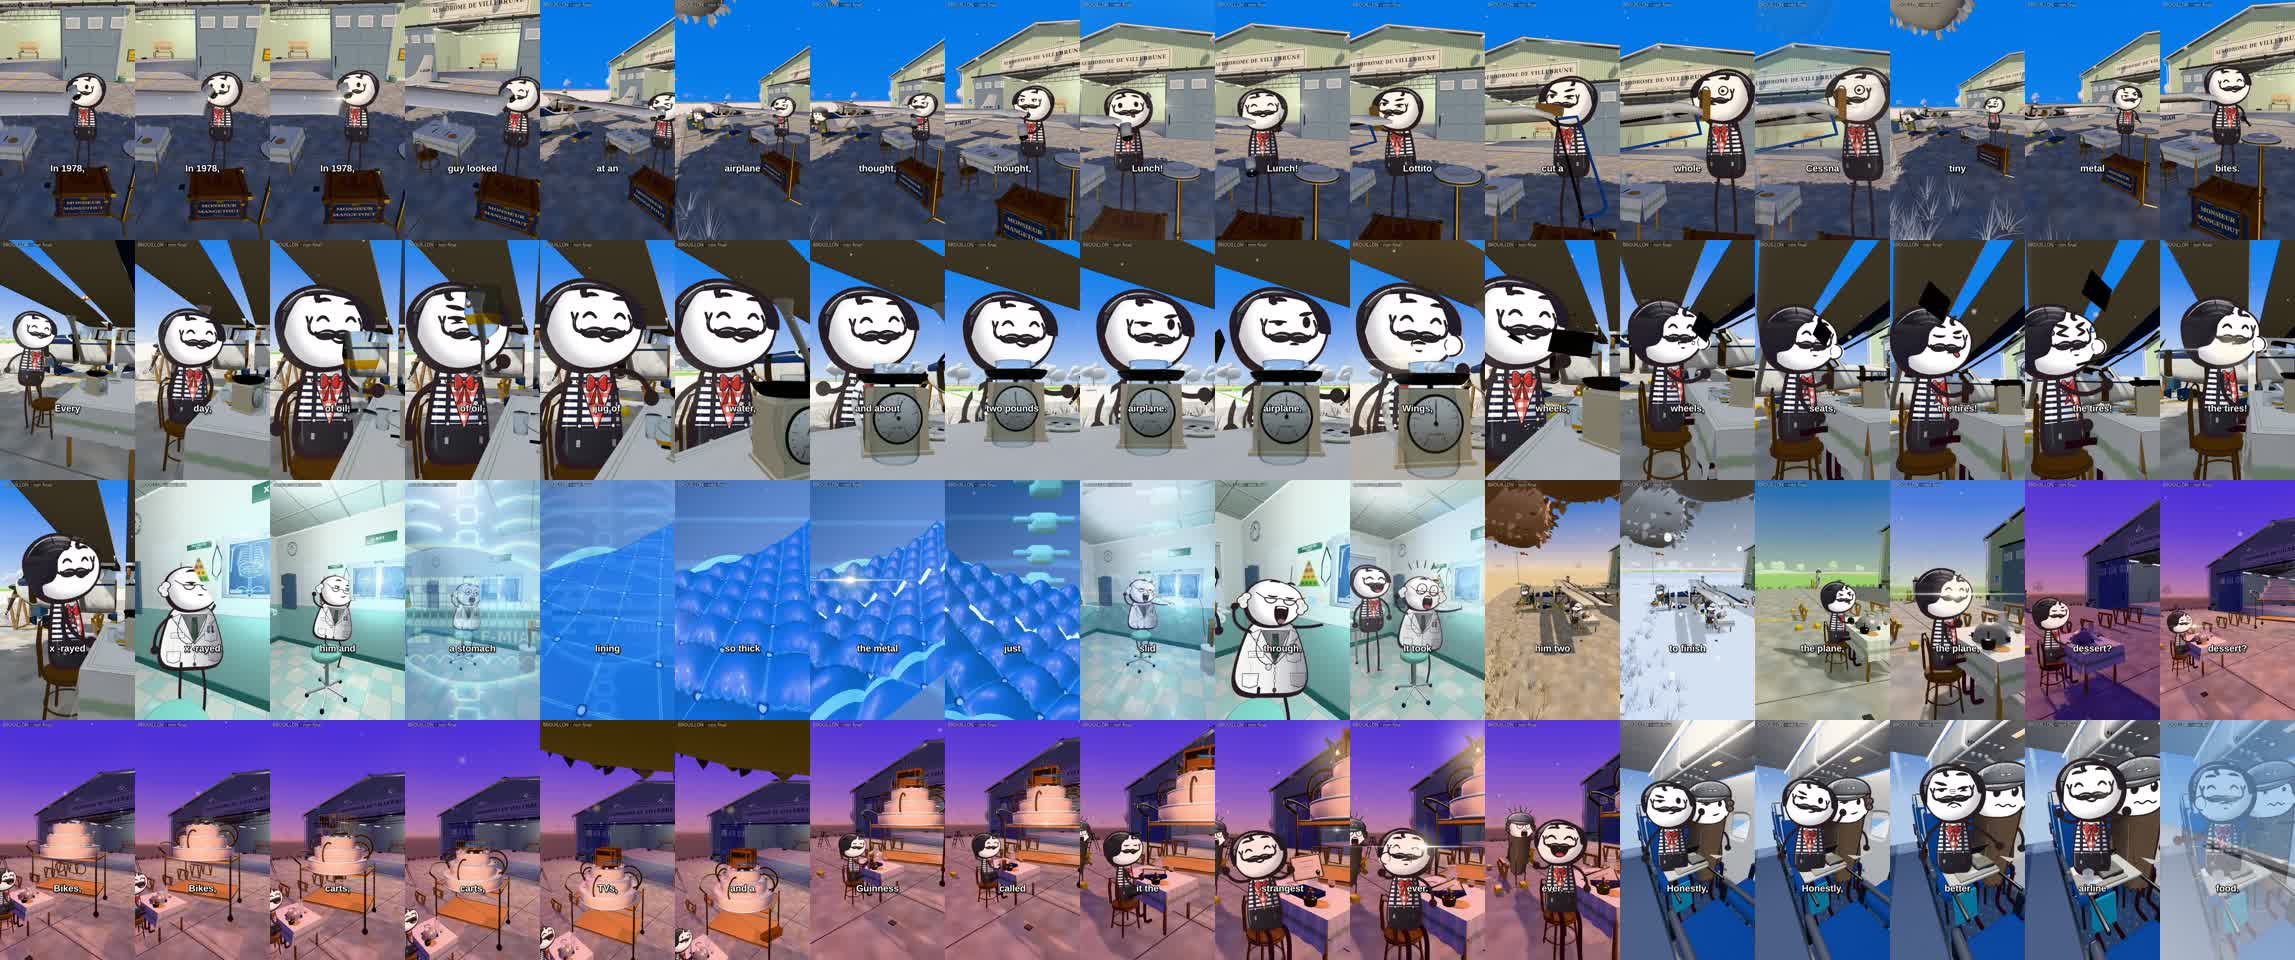
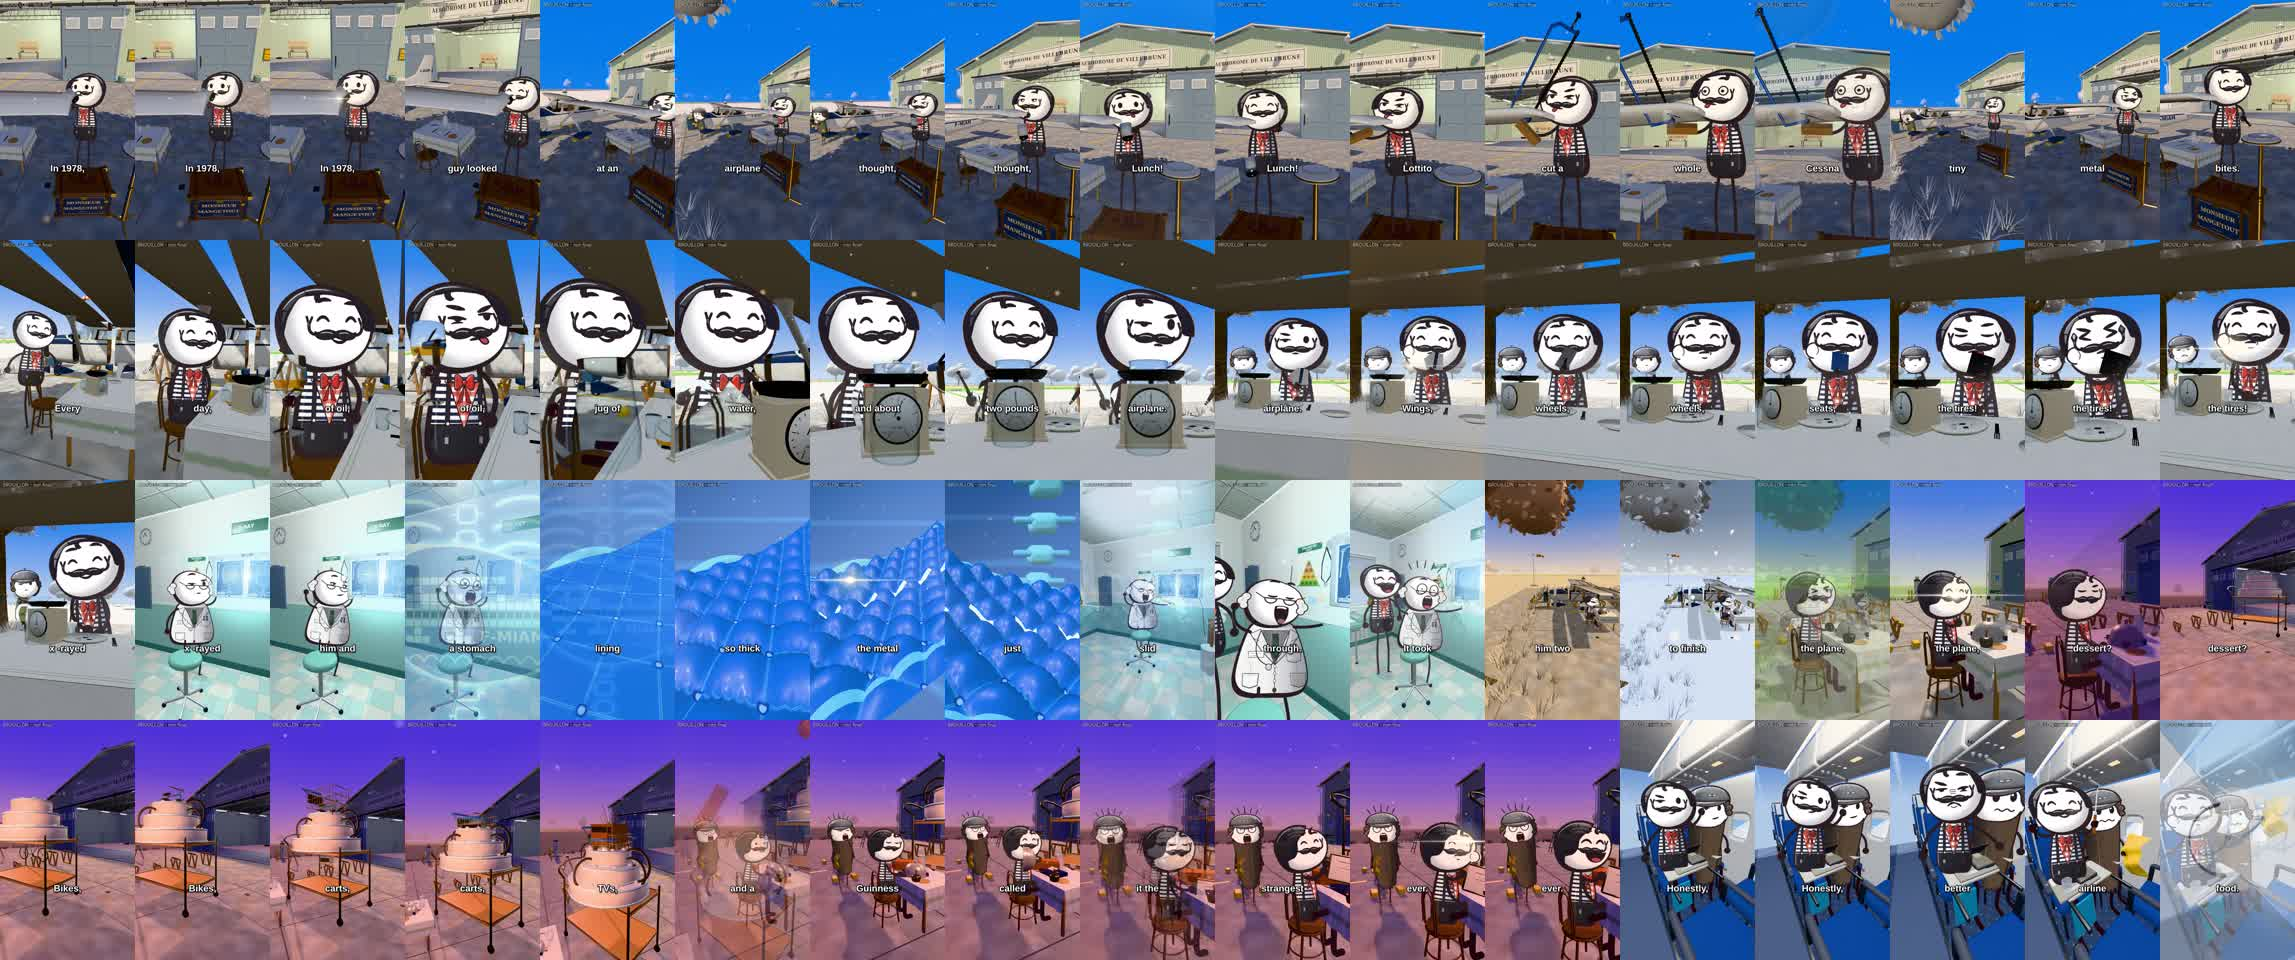
plane-eater: S3/S5 hands landed; whole draft v2
Claude-Session: https://claude.ai/code/session_01DrjR3Ltb34YxYG9MboPX6s

diff --git a/episodes/plane-eater/s5/STATE.md b/episodes/plane-eater/s5/STATE.md
@@ -1,4 +1,10 @@
 # S5 STATE: THE ENDING (PICTURE_PLAN rows 35-38, line 8b, film 31.44-34.04 s = frames 943-1021). DRAFT fix round 1, 2026-11-22. Half size (540x960).
+## HAND FIX ROUND (kit fixed by S2; the move reads ch.tgt) - result
+- The owner's rag is ON the window glass at eye height from f1001, small wiping circles (hand_at [0.20, 1.74, 1.24] read by moves/ep_s5.mjs; held3d rag
+  on hand "L" after the kit's hand swap; the FOOD station widened so the window is in frame). Re-rendered 984-1012 only + re-blend.
+- Owner hips: NOT fixed. frame_checks still 2 FAIL at f944-955 only: hips 10.8 cm above seat_0B_belt_1 and feet 7.4 cm into seat_0B_pan: the
+  seated card is nudged toward the lens (kit DEPTH NUDGE) over the next seat, so the check reads the wrong seat; lowering him 5 cm did not change it.
+  camsafe 2034 PASS / 10 FAIL (f1012, window take), plan check 7 FAIL.
 ## FIX LIST v1 (draft/FIX_LIST_v1.md) - result
 - Window bite: DONE. The window pass (film_W.json) hides the far glb wing and builds a clean wing panel just outside the glass with ONE crescent bite
   (cabin.js "bite_piece": centre, r .5 m, bank -50 deg so the lens looks down on it, sweep 25); the bite fills about a third of the frame, clouds behind
@@ -51,3 +57,4 @@
 ## Files
 make_film.py -> film.json, moves/ep_s5.mjs, render_s5.sh (one command: bake, frames, checks, draft.mp4), sheets.py, draft.mp4 (2.6 s, voice, captions),
 KEYFRAMES.jpg, strip_4fps.jpg, plan_check.txt, checks.txt, camsafe.txt. Symlinks cast, voice, sets, props -> episode folders.
+- 2026-11-22 S5 waiver (lead): frame_checks 2 FAIL at f944-955 (owner hips/feet measured against the next seat B after the kit's seated nudge toward the lens); picture looks seated; to re-check in Blender.

diff --git a/episodes/plane-eater/s3/STATE.md b/episodes/plane-eater/s3/STATE.md
@@ -1,4 +1,8 @@
 # S3 STATE: THE X-RAY (PICTURE_PLAN rows 19-22, line 5, film 17.30-21.28 s = frames 519-638). DRAFT fix round 1, 2026-11-22. Half size (540x960).
+## HAND FIX ROUND (kit fixed by S2; the move reads ch.tgt) - result
+- The Doctor's fist is ON the lower-left corner of the film (hand_at [-0.09, 2.07, 1.24], f519-600, read by moves/ep_s3.mjs). The first target (z 1.50)
+  projected 281 px above his shoulder (arm 269 px): out of reach, the rig left the hand at his head; z 1.24 = in reach.
+- Re-rendered pass A1 only (519-565) + re-blend. frame_checks 0 FAIL / 0 WARN, camsafe 584 PASS / 1 FAIL (f566), plan check 6 FAIL.
 ## FIX LIST v1 (draft/FIX_LIST_v1.md) - result
 - Doctor bigger in the wide: PARTLY (camera in to 0.55, 0.10; he is about 1.3x bigger, still a medium-small figure). The first-frame jump is fixed
   (creep on a first station runs from frame 0: creep 0 + drift with ends, LECONS 2026-11-22).
